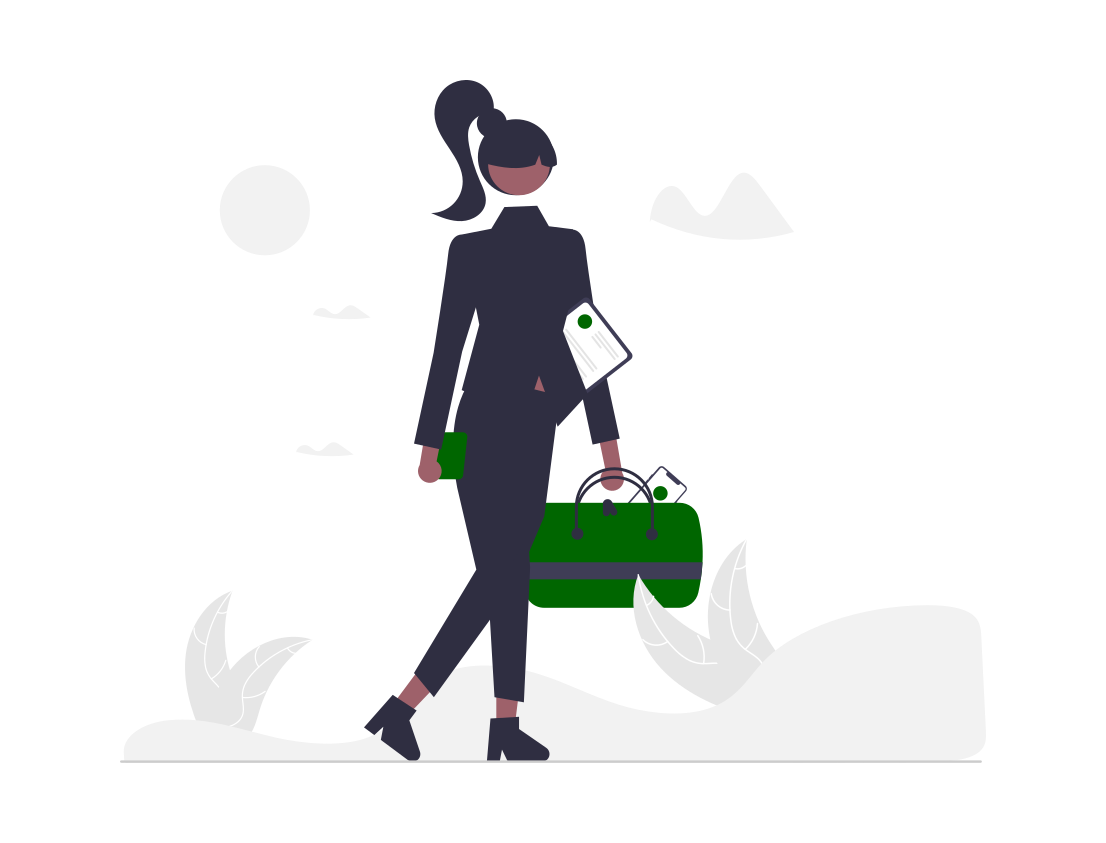
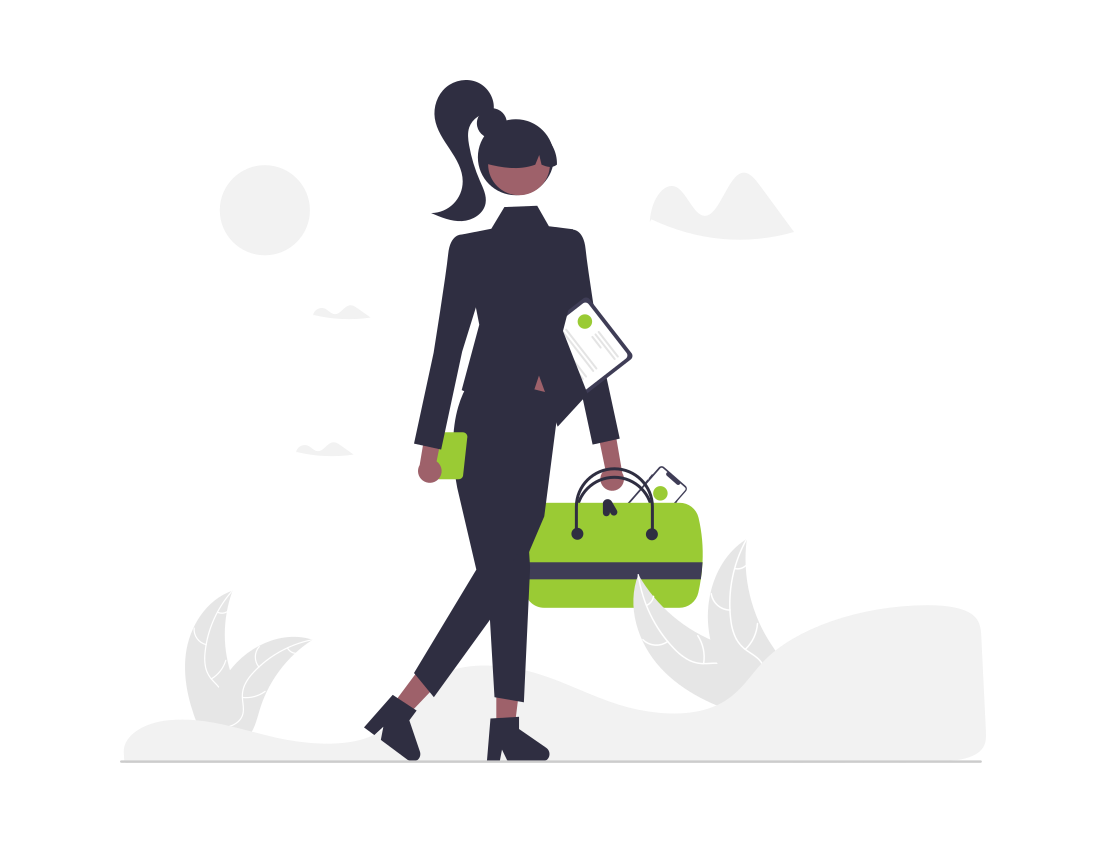
kaxal colors changed

Changed region(s): [[0.4611, 0.5552, 0.6456, 0.7402], [0.3996, 0.4935, 0.4304, 0.586], [0.5226, 0.3701, 0.5533, 0.4009]]

diff --git a/src/styles/modules/_services.scss b/src/styles/modules/_services.scss
@@ -40,7 +40,8 @@
                 & h1{
                     font-size: 50px;
                     // color: var(--secondary-grey);
-                    color: var(--primary-green);
+                    // color: var(--primary-green);
+                    color: #9ACB34;
                     text-transform: capitalize;
                     text-align: center;
                 }
